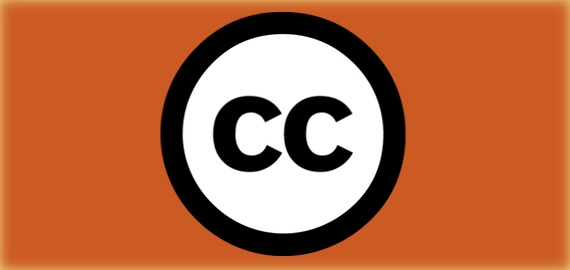
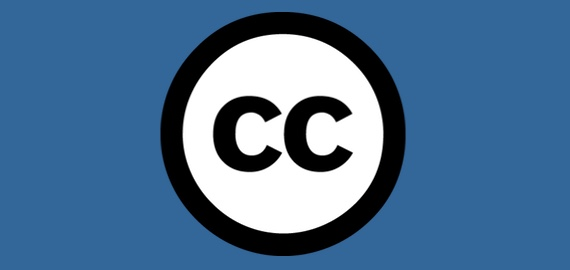
New front and color

diff --git a/index.html b/index.html
@@ -26,6 +26,16 @@
       s.parentNode.insertBefore(gcse, s);
       })();
    </script>
+	 <script>
+  		(function(i,s,o,g,r,a,m){i['GoogleAnalyticsObject']=r;i[r]=i[r]||function(){
+  		(i[r].q=i[r].q||[]).push(arguments)},i[r].l=1*new Date();a=s.createElement(o),
+  		m=s.getElementsByTagName(o)[0];a.async=1;a.src=g;m.parentNode.insertBefore(a,m)
+  		})(window,document,'script','https://www.google-analytics.com/analytics.js','ga');
+
+  		ga('create', 'UA-81257792-2', 'auto');
+  		ga('send', 'pageview');
+
+		</script>
 		<noscript>
 			<link rel="stylesheet" href="css/skel-noscript.css" />
 			<link rel="stylesheet" href="css/style.css" />
@@ -55,7 +65,9 @@
 					<span class="tag"> <br> We provide you with ONE search across many of the best OER sites in the world!</a></span>
           <br><br><br>
 						<gcse:search></gcse:search>
+						<span class="tag"> <br><br> (Type any subject in to the search-box - BETA)</a></span>
 				</div>
+
 			</div>
 		</div>
 
@@ -68,21 +80,21 @@
 						<a href="list-of-oer-tools.html" class="image full"><img src="images/oer.jpg" alt=""></a>
 					</section>
 					<section class="6u">
-						<p>We have made <a href="list-of-oer-tools.html"> a list of greate tools</a> that you can use to create your own  Open educational resource. You can get started in minutes, the only thing you need is a computer, tablet or a smart phone.</p>
-						<p>We have made <a href="list-of-oer-tools.html"> a list of greate tools</a> that you can use to create your own  Open educational resource. You can get started in minutes, the only thing you need is a computer, tablet or a smart phone.</p>
-						<p>We have made <a href="list-of-oer-tools.html"> a list of greate tools</a> that you can use to create your own  Open educational resource. You can get started in minutes, the only thing you need is a computer, tablet or a smart phone.</p>
-
+						<p>The idea behind OER Global Search is to make it easy for anyone to find learning resources that supports reuse, re-mixing and re-contextualization. We have included some of the best OERs like Khan Academy, CK-12,
+						OER Commons, MIT OpenCourseware. The complete list of all the <a href="list-of-oer.html">projects and sites inluded in the search.</a> </p>
+						<p>Most of the resources are in English but we have included resources in many other languages like Hindi, French, Spanish and Norwegian. You will even find some resources in Swahili and Amharic.</p>
+						<p>If you want to take it a step further and make your own OER thats asome! We have made <a href="list-of-oer-tools.html"> a list of greate tools</a> that you can use to create your own  Open educational resource. You can get started in minutes, the only thing you need is a computer, tablet or a smart phone.</p>
 					</section>
 				</div>
 
 				<div class="row">
 					<section class="6u">
-							<p>We have made <a href="list-of-oer-tools.html"> a list of greate tools</a> that you can use to create your own  Open educational resource. You can get started in minutes, the only thing you need is a computer, tablet or a smart phone.</p>
-							<p>We have made <a href="list-of-oer-tools.html"> a list of greate tools</a> that you can use to create your own  Open educational resource. You can get started in minutes, the only thing you need is a computer, tablet or a smart phone.</p>
-							<p>We have made <a href="list-of-oer-tools.html"> a list of greate tools</a> that you can use to create your own  Open educational resource. You can get started in minutes, the only thing you need is a computer, tablet or a smart phone.</p>
+							<p>If a learning resource is released with Copyright you can not reuse or change it. That is why a free lisence is so important for any Open educational resourse. If your are new to the term OER you should take a few minutes and learn more about <a href="https://search.creativecommons.org/">Creative Commons.</a>  </p>
+							<p>Creative Commons helps you legally share your knowledge and creativity to build a more equitable, accessible, and innovative world. Free licenses unlock the full potential of the internet to drive a new era of development, growth and productivity.</p>
+							<p>If you are looking for other resources like pictures and videos that are released under a Creative Commons license you shold check out <a href="https://search.creativecommons.org/"> this services</a> at Creativecommons.org.</p>
 						</section>
 					<section class="6u">
-							<a href="list-of-oer-tools.html" class="image full"><img src="images/creativecommons.jpg" alt=""></a>
+							<a href="<a href="https://www.creativecommons.org/ class="image full"><img src="images/creativecommons.jpg" alt=""></a>
 					</section>
 				</div>
 
@@ -118,7 +130,7 @@
 	<!-- Copyright -->
 		<div id="copyright">
 			<div class="container">
-				Design: <a href="http://templated.co">TEMPLATED</a> Images: <a href="http://unsplash.com">Unsplash</a> (<a href="http://unsplash.com/cc0">CC0</a>)
+				This design: <a href="https://templated.co/linear">is based on Linear</a> from <a href="https://templated.co/">TEMPLATED</a>
 			</div>
 		</div>
 

diff --git a/list-of-oer.html b/list-of-oer.html
@@ -61,8 +61,8 @@
 								<section class="6u">
 									<ul class="default">
 										<li><a href="http://www.khanacademy.org">Khan Academy</a></li>
-										<li><a href=""></a></li>
-										<li><a href=""></a></li>
+										<li><a href="http://www.gooru.org/">Gooru.org</a></li>
+										<li><a href="https://www.edx.org/">edX.org</a></li>
 										<li><a href="https://cnx.org/">OpenStax</a></li>
 										<li><a href="https://ndla.no/">Norwegian digital learning arena</a></li>
 									</ul>
@@ -71,9 +71,9 @@
 									<ul class="default">
 										<li><a href="http://www.oercommons.org">OER Commons</a></li>
 										<li><a href="http://www.ck12.org/">CK-12.org</a></li>
-										<li><a href="#"></a></li>
-										<li><a href="#">Venenatis vulputate</a></li>
-										<li><a href="#">Morbi ligula volutpat</a></li>
+										<li><a href="https://sharemylesson.com/">Sharemylesson.com</a></li>
+										<li><a href="http://ocw.mit.edu/">MIT OpenCourseWare</a></li>
+										<li><a href=""></a></li>
 									</ul>
 								</section>
 							</div>
@@ -89,10 +89,11 @@
 							</header>
 							<p><b>Khan Academy</b> is a non-profit educational organization created in 2006 by educator Salman "Sal" Khan with the aim of providing a "free, world-class education for anyone, anywhere". The organization produces short lectures in the form of YouTube videos. In addition to micro lectures, the organization's website features practice exercises and tools for educators. All resources are available for free to anyone around the world.</p>
 							<p><b>The CK-12 Foundation</b> is a California-based non-profit organization whose stated mission is to reduce the cost of, and increase access to, K-12 education in the United States and worldwide. CK-12 provides free and fully customizable K-12 open educational resources aligned to state curriculum standards and tailored to meet student and teacher needs. The foundation's tools are used by 38,000 schools in the US, and additional international schools.</p>
+							<p><b>MIT OpenCourseWare (MIT OCW)</b> is an initiative of the Massachusetts Institute of Technology (MIT) to put all of the educational materials from its undergraduate- and graduate-level courses online, freely and openly available to anyone, anywhere. MIT OpenCourseWare is a large-scale, web-based publication of MIT course materials. The project was announced on April 4, 2001 and uses Creative Commons Attribution-Noncommercial-Share Alike license. </p>
 							<p><b>OpenStax CNX</b> was Founded as Connexions in 1999 by Richard Baraniuk. OpenStax CNX is based on the philosophy that scholarly and educational content can and should be shared, re-used and recombined, interconnected and continually enriched. As such, it was one of the first Open Educational Resources (OER) initiatives along with projects such as MIT OpenCourseWare and the Public Library of Science. The materials in Connexions are available under a CC-BY Creative Commons license</p>
-
 							<p><b>OER Commons</b>, created by the Institute for the Study of Knowledge Management in Education, was developed to serve curriculum experts and educators in discovering open educational resources (OER) and collaborating around the use, evaluation, and improvement of those materials.[1] Resources on the site can be searched and filtered using an expanded set of descriptive data, including conditions of use. Teachers, students, and others enrich this "metadata" when they tag, rate, and review materials, and share what works for them.</p>
 							<p><b>The Norwegian Digital Learning Arena (Nasjonal digital læringsarena)</b> is a joint enterprise operating on behalf of the county councils in Norway. Its aim is to develop and publish high quality, internet-based open educational resources (OER) in subjects taught at upper secondary school level and make these freely available. The joint production and purchase enterprise was initiated by 18 counties in 2007 when the responsibility for the acquisition of learning content was delegated from the state to the county level. All counties except Oslo are owners of NDLA, with Hordaland county as formal judicial unit.</p>
+							<p><b>edX</b> is a massive open online course (MOOC) provider. It hosts online university-level courses in a wide range of disciplines to a worldwide student body, including some courses at no charge. It also conducts research into learning based on how people use its platform. EdX differs from other MOOC providers, such as Coursera and Udacity, in that it is a nonprofit organization and runs on open-source software.</>
 						</section>
 					</div>
 
